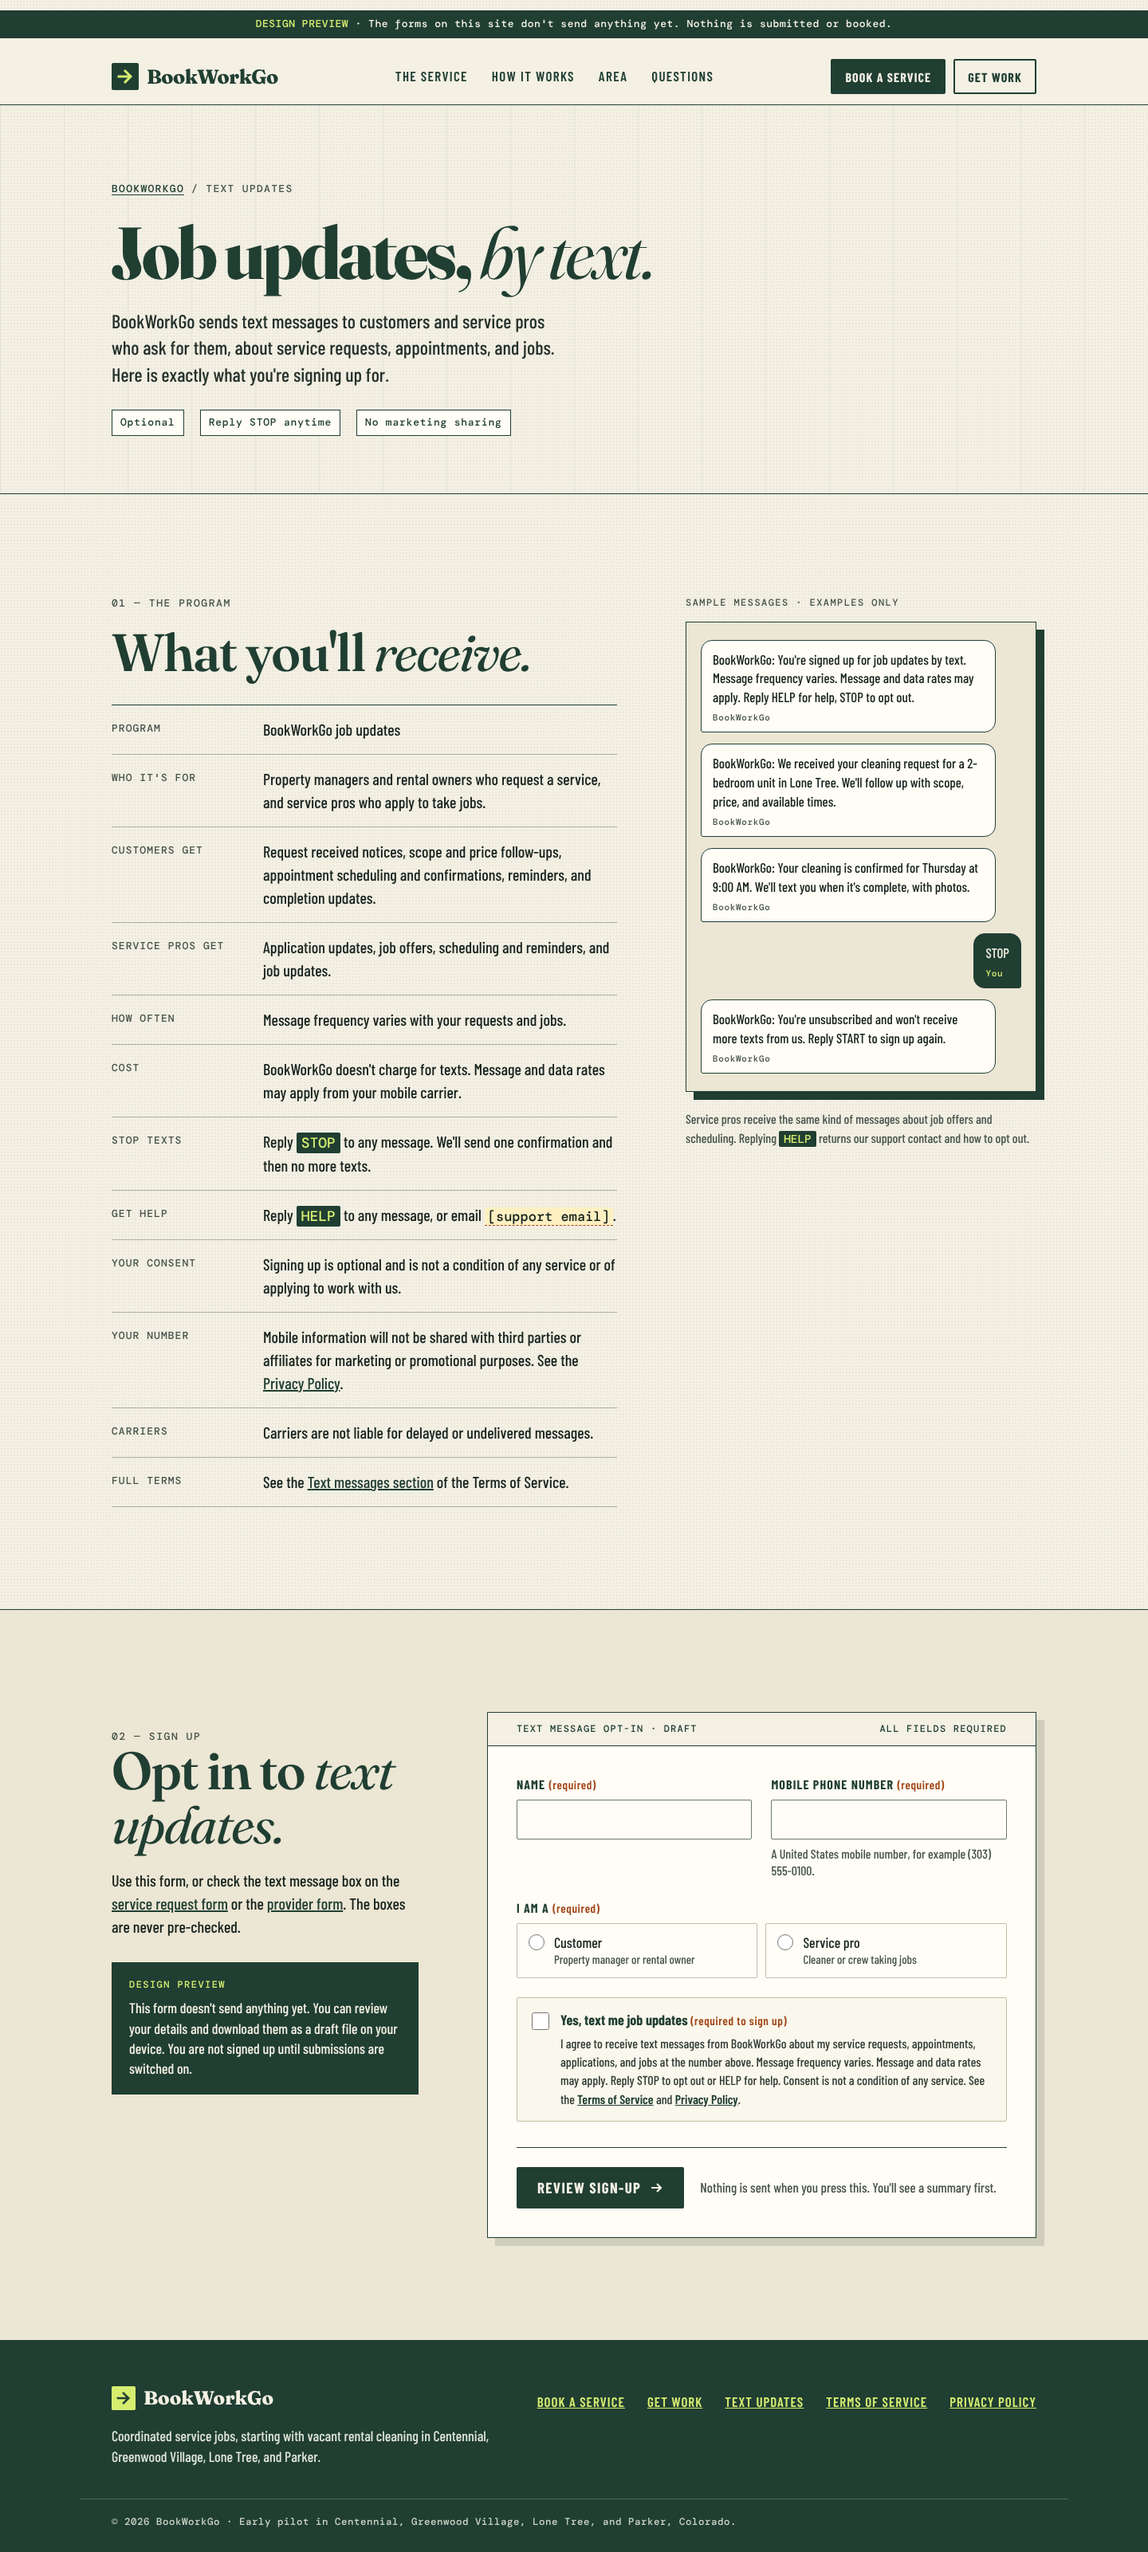
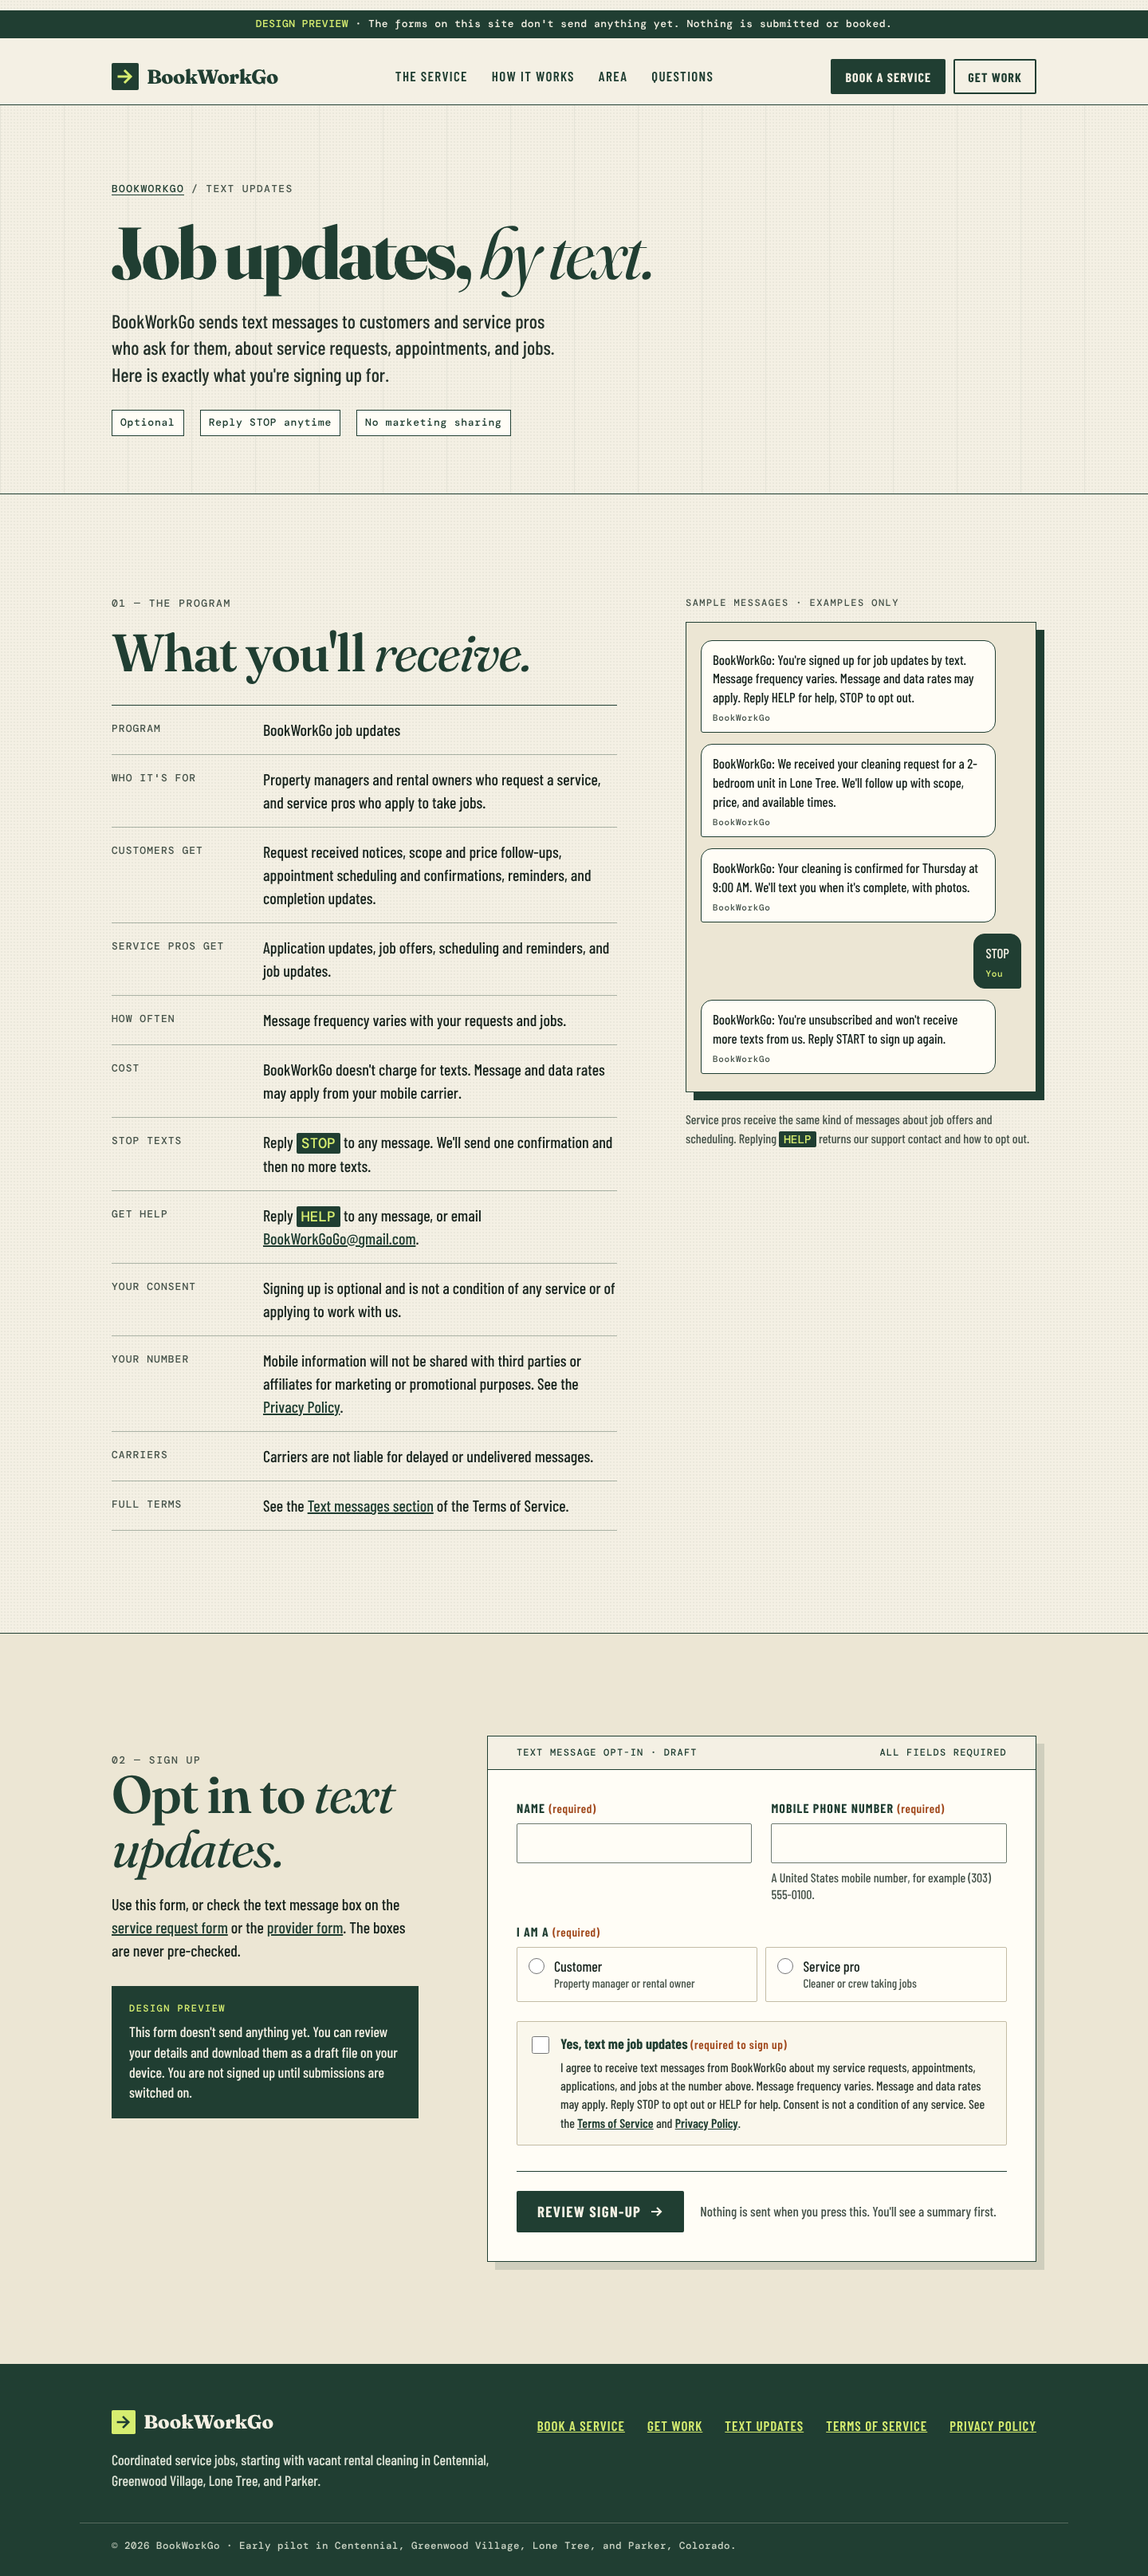
Use BookWorkGoGo@gmail.com as the support email
Replace the five [support email] placeholders on the opt-in page,
Terms of Service, and Privacy Policy with a mailto link, drop the
placeholder styling, update the README, and refresh screenshots.

Claude-Session: https://claude.ai/code/session_0142KHfwCNBmr3zNNMtHne7b

diff --git a/terms-of-service/index.html b/terms-of-service/index.html
@@ -136,7 +136,7 @@
               <li><strong>Frequency:</strong> message frequency varies with your requests and jobs.</li>
               <li><strong>Cost:</strong> message and data rates may apply. BookWorkGo doesn't charge for texts.</li>
               <li><strong>Opting out:</strong> reply <span class="keyword">STOP</span> to any message. You'll receive one message confirming you've been unsubscribed, and no further texts. Reply <span class="keyword">START</span> to sign up again.</li>
-              <li><strong>Help:</strong> reply <span class="keyword">HELP</span> to any message, or email <span class="todo-contact">[support email]</span>.</li>
+              <li><strong>Help:</strong> reply <span class="keyword">HELP</span> to any message, or email <a href="mailto:BookWorkGoGo@gmail.com">BookWorkGoGo@gmail.com</a>.</li>
               <li><strong>Carriers:</strong> carriers are not liable for delayed or undelivered messages.</li>
               <li><strong>Privacy:</strong> mobile information will not be shared with third parties or affiliates for marketing or promotional purposes. See the <a href="../privacy-policy/#text-messages">Privacy Policy</a>.</li>
             </ul>
@@ -171,7 +171,7 @@
 
         <section id="contact" aria-labelledby="h-contact">
           <h2 id="h-contact">Contact</h2>
-          <p>Questions about these Terms: email <span class="todo-contact">[support email]</span>, or reply <span class="keyword">HELP</span> to any BookWorkGo text message.</p>
+          <p>Questions about these Terms: email <a href="mailto:BookWorkGoGo@gmail.com">BookWorkGoGo@gmail.com</a>, or reply <span class="keyword">HELP</span> to any BookWorkGo text message.</p>
         </section>
       </article>
     </div>

diff --git a/privacy-policy/index.html b/privacy-policy/index.html
@@ -137,7 +137,7 @@
         <section id="choices" aria-labelledby="h-choices">
           <h2 id="h-choices">Your choices</h2>
           <ul>
-            <li>Ask to see, correct, or delete the personal information we hold about you by emailing <span class="todo-contact">[support email]</span>. We may need to keep some records where the law requires.</li>
+            <li>Ask to see, correct, or delete the personal information we hold about you by emailing <a href="mailto:BookWorkGoGo@gmail.com">BookWorkGoGo@gmail.com</a>. We may need to keep some records where the law requires.</li>
             <li>Stop text messages at any time by replying <span class="keyword">STOP</span>.</li>
             <li>Stop other messages by telling us you'd like to opt out.</li>
           </ul>
@@ -155,7 +155,7 @@
 
         <section id="contact" aria-labelledby="h-contact">
           <h2 id="h-contact">Contact</h2>
-          <p>Privacy questions or requests: email <span class="todo-contact">[support email]</span>, or reply <span class="keyword">HELP</span> to any BookWorkGo text message.</p>
+          <p>Privacy questions or requests: email <a href="mailto:BookWorkGoGo@gmail.com">BookWorkGoGo@gmail.com</a>, or reply <span class="keyword">HELP</span> to any BookWorkGo text message.</p>
         </section>
       </article>
     </div>

diff --git a/opt-in/index.html b/opt-in/index.html
@@ -58,7 +58,7 @@
           <div><dt>How often</dt><dd>Message frequency varies with your requests and jobs.</dd></div>
           <div><dt>Cost</dt><dd>BookWorkGo doesn't charge for texts. Message and data rates may apply from your mobile carrier.</dd></div>
           <div><dt>Stop texts</dt><dd>Reply <span class="keyword">STOP</span> to any message. We'll send one confirmation and then no more texts.</dd></div>
-          <div><dt>Get help</dt><dd>Reply <span class="keyword">HELP</span> to any message, or email <span class="todo-contact">[support email]</span>.</dd></div>
+          <div><dt>Get help</dt><dd>Reply <span class="keyword">HELP</span> to any message, or email <a href="mailto:BookWorkGoGo@gmail.com">BookWorkGoGo@gmail.com</a>.</dd></div>
           <div><dt>Your consent</dt><dd>Signing up is optional and is not a condition of any service or of applying to work with us.</dd></div>
           <div><dt>Your number</dt><dd>Mobile information will not be shared with third parties or affiliates for marketing or promotional purposes. See the <a href="../privacy-policy/">Privacy Policy</a>.</dd></div>
           <div><dt>Carriers</dt><dd>Carriers are not liable for delayed or undelivered messages.</dd></div>

diff --git a/css/site.css b/css/site.css
@@ -385,8 +385,6 @@ select.ctl {
 .consent .consent-text { display: block; margin-top: 6px; font-size: 16px; line-height: 1.45; color: #2f3b33; }
 .consent .consent-text a { color: var(--forest); font-weight: 600; }
 
-.todo-contact { background: #fff0c2; padding: 0 4px; border-bottom: 1.5px dashed var(--clay-ink); font-family: var(--mono); font-size: .85em; white-space: nowrap; }
-.dark .todo-contact { color: var(--ink); }
 
 /* Inner page header band */
 .page-head {

diff --git a/README.md b/README.md
@@ -32,7 +32,7 @@ CNAME                   custom domain (keep)
 
 ## Before launch
 
-- **Support contact.** Search for `[support email]` (five spots across the three new pages) and replace it with the real support email address.
+- **Support contact.** The support email, BookWorkGoGo@gmail.com, appears on the opt-in page, Terms of Service, and Privacy Policy. Update all three together if it changes.
 - **Forms are preview-only.** No form sends anything yet: each one validates in the browser, shows a review summary, and offers a draft file download. The "Design preview" notices say so. Connect a real, verified submission destination in `js/draft-form.js` (see the comment in the submit handler), then update the preview wording. Never put private keys in browser code.
 - **Text messaging registration.** Messaging providers review the opt-in page and the consent wording. A form that says it doesn't send anything may be questioned, so connect submissions before registering if possible.
 - **Legal review.** The Terms of Service and Privacy Policy were drafted for an early pilot and should be reviewed by a lawyer.
